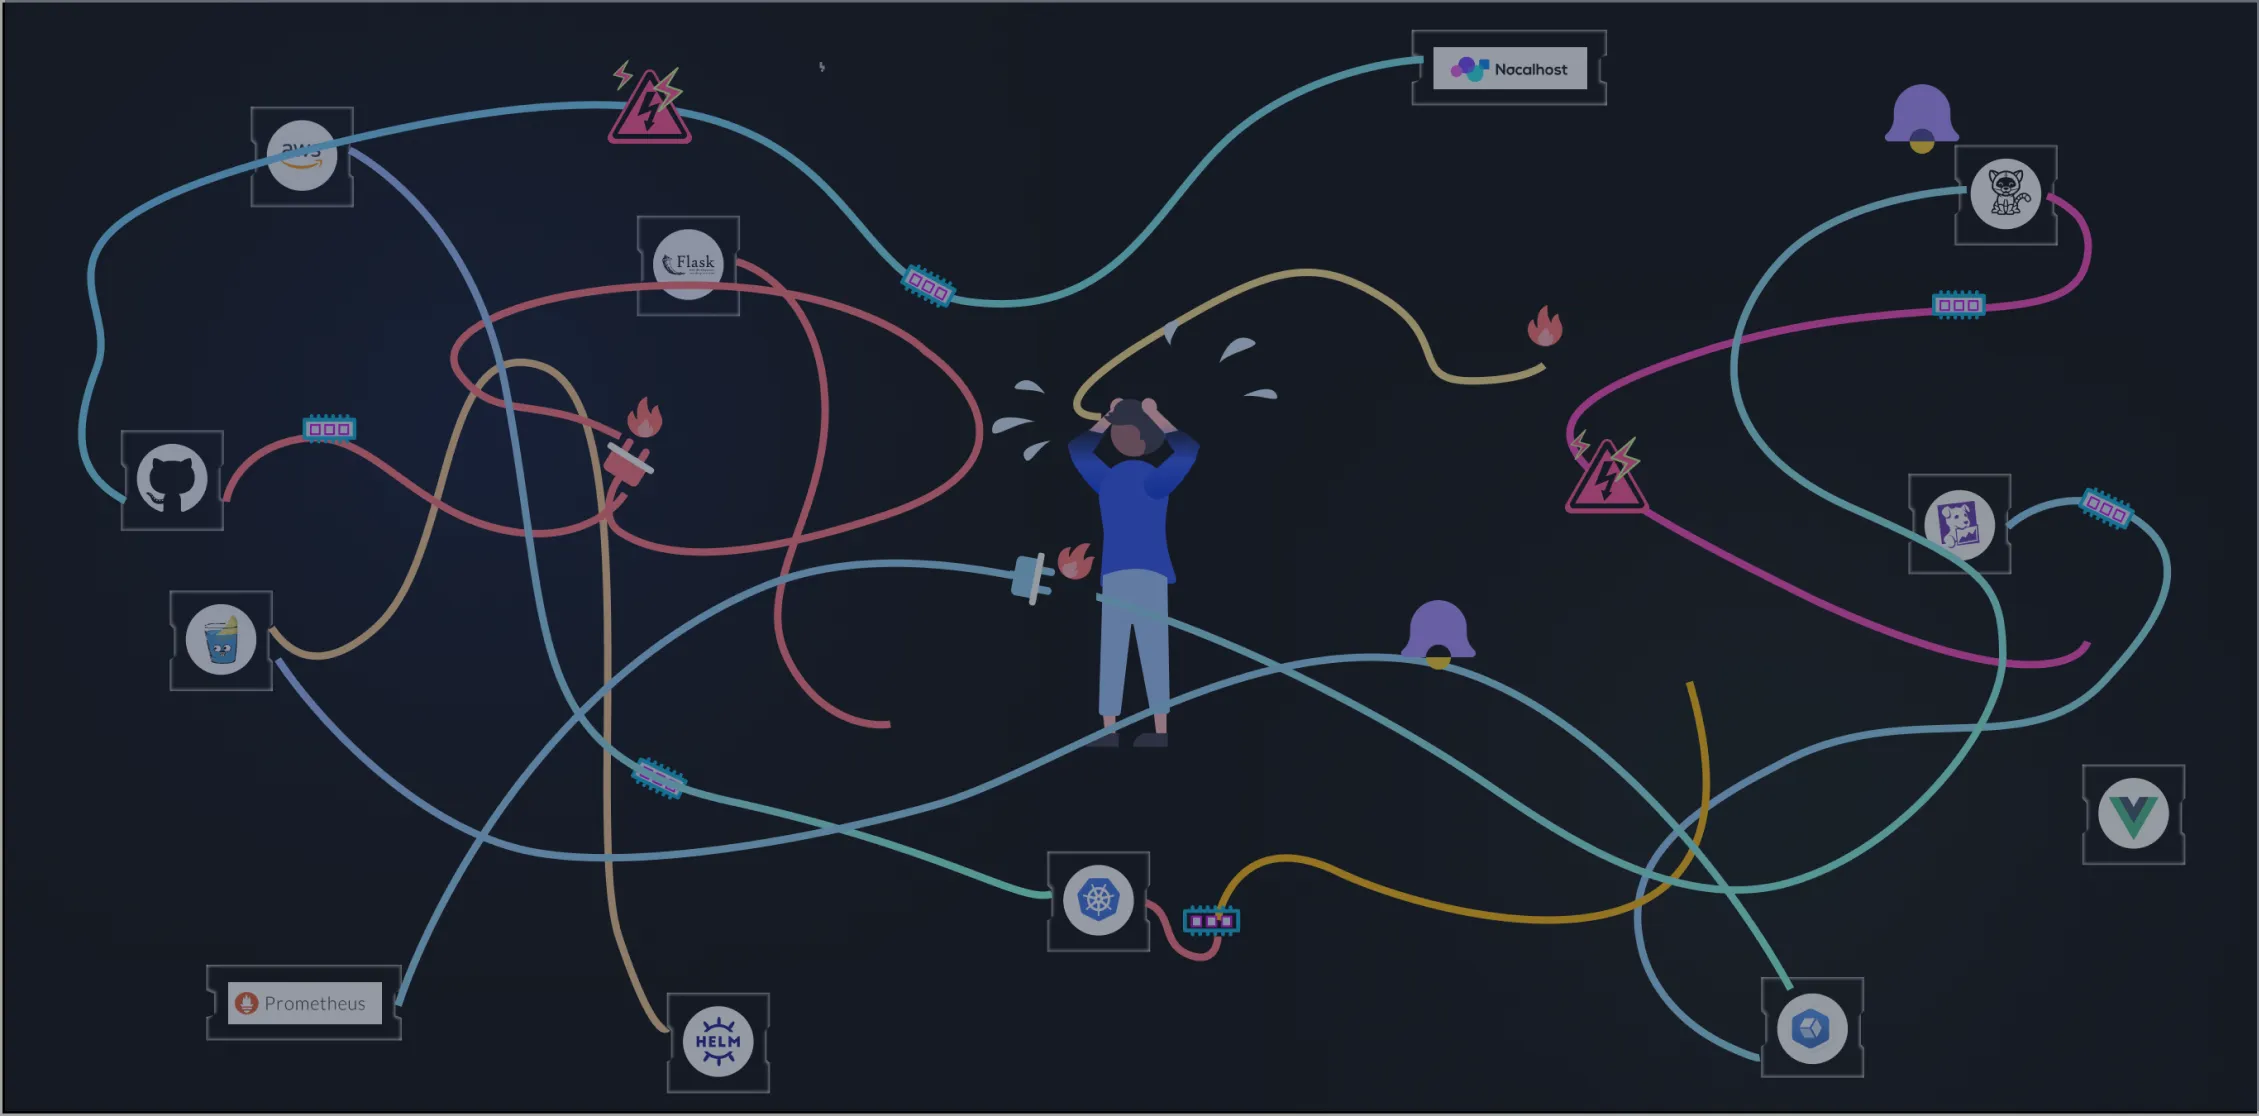
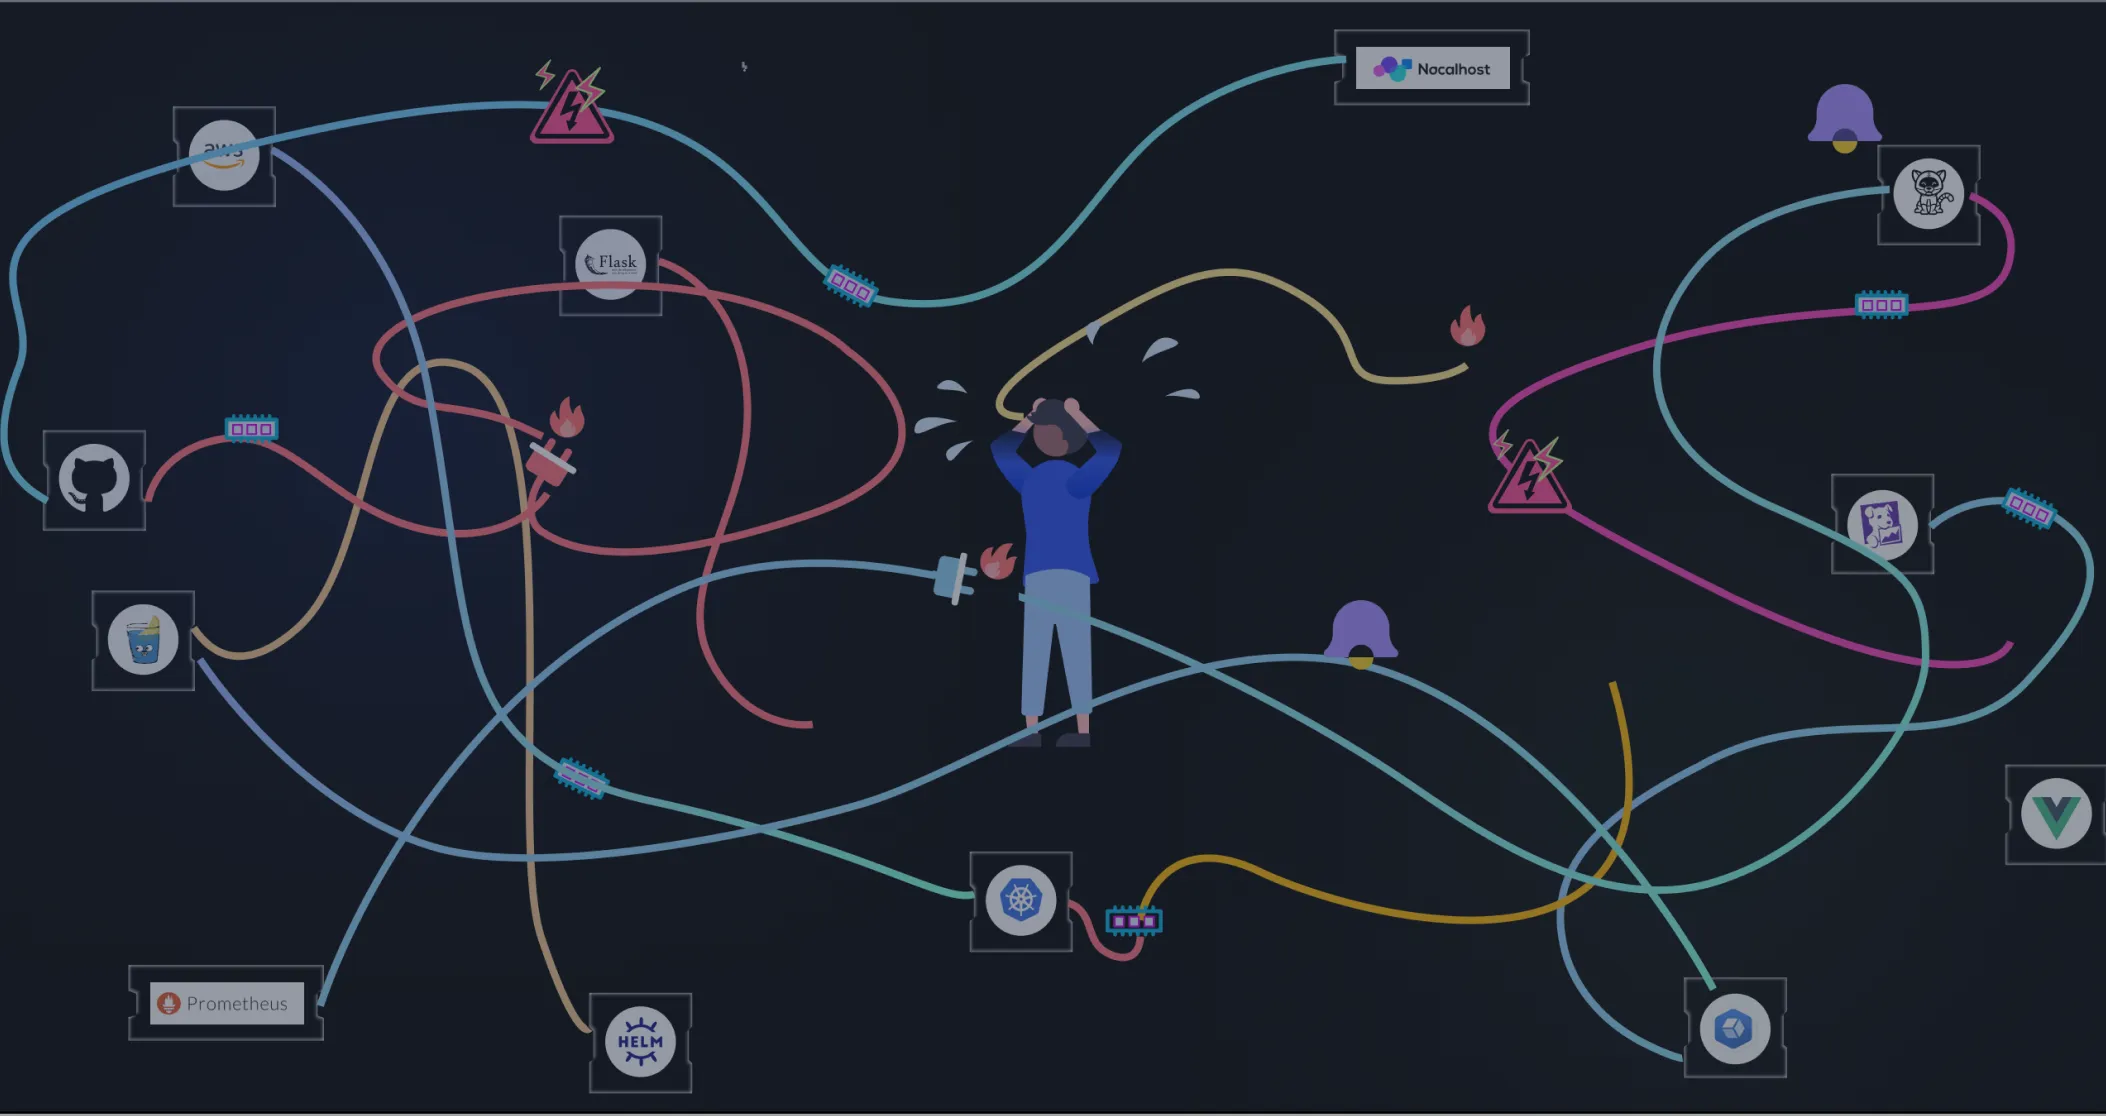
Refactor: Picture slider replace picture

diff --git a/src/components/homepage/WhyHeighliner/index.module.scss b/src/components/homepage/WhyHeighliner/index.module.scss
@@ -53,7 +53,7 @@
   position: relative;
   overflow-x: hidden;
   overflow-y: hidden;
-  box-shadow: 2px 2px 50px 25px rgba(145, 98, 228, 0.17);
+  box-shadow: 2px 2px 50px 10px rgba(145, 98, 228, 0.21);
   border: solid 1px #000;
 
 
@@ -73,10 +73,6 @@
     top: 370px;
   }
 
-  .poleWrap {
-
-  }
-
   .pole{
     width: 46px;
     height: 372px;
@@ -87,7 +83,7 @@
   }
 
   .layerImg {
-    max-width: 753px;
+    max-width: 702px;
     background-color: #000;
   }
 
